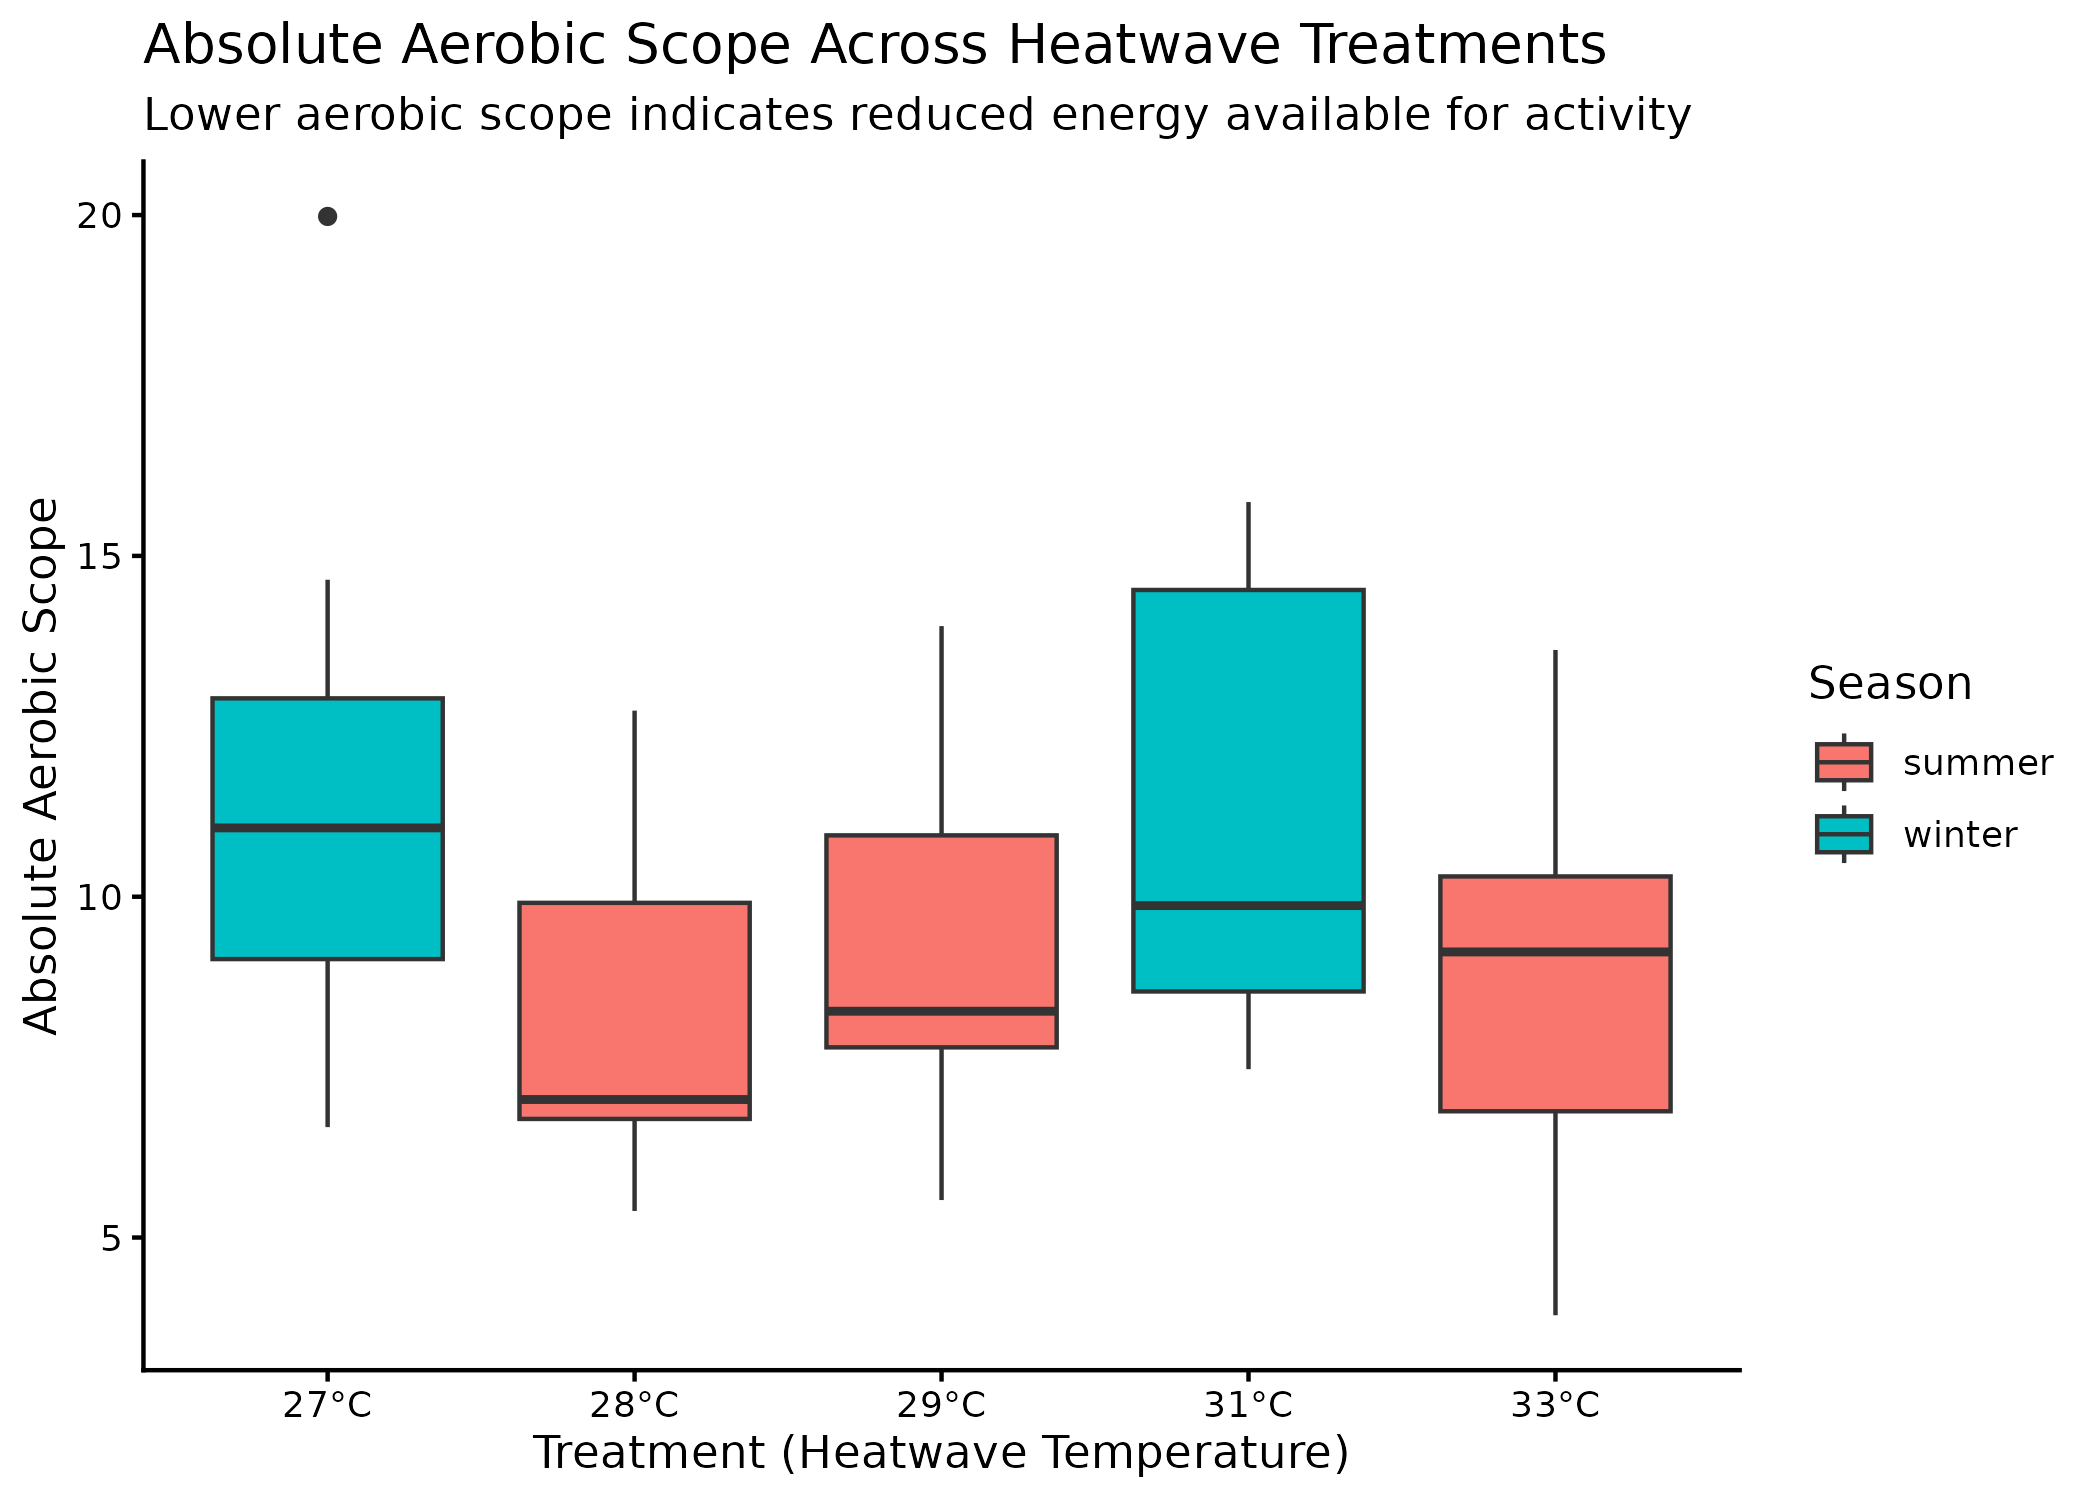
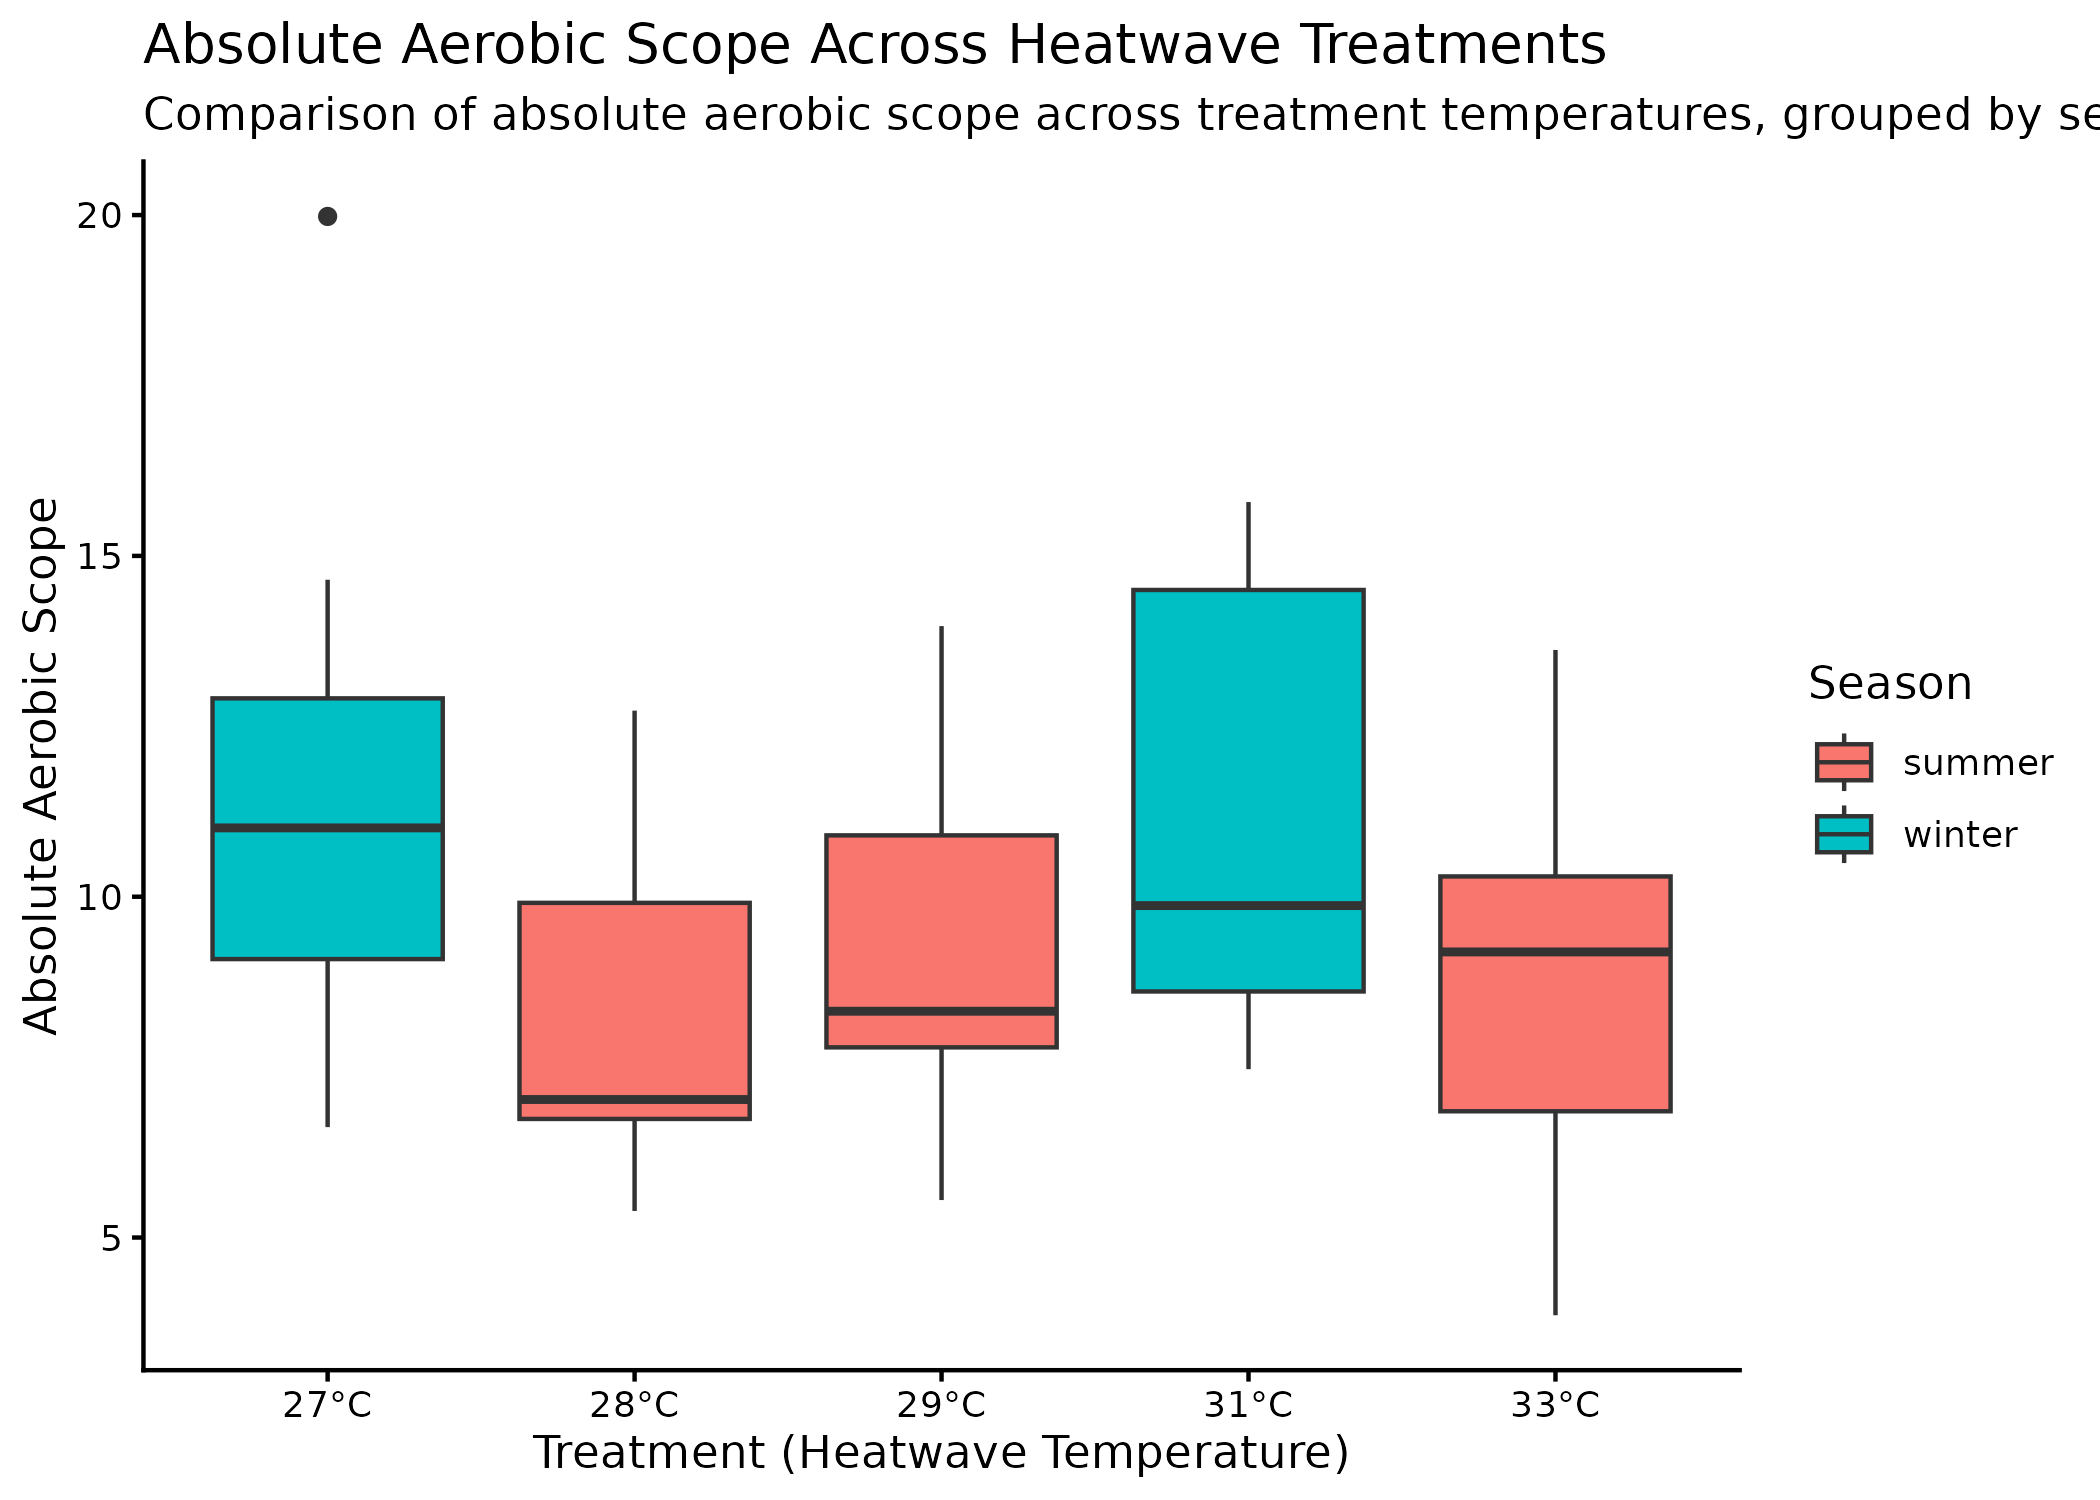
Final plot

Changed region(s): [[0.0619, 0.0613, 1.0, 0.092]]

diff --git a/memo/memo.md b/memo/memo.md
@@ -193,24 +193,6 @@ ggplot(df, aes(x = bw_g, y = mmr_corrected, color = season)) +
 
 ### Plot 5:Absolute Aerobic Scope vs Heatwave Treatment
 
-\#What is Absolute Aerobic Scope: This is the amount of energy an
-organism has for activites outside of basic survival. It is calculated
-by difference between an organism’s maximum metabolic rate and its
-standard metabolic rate. A higher absolute aerobic scope means an
-organism has more energy to available for movement, feeding, growth, or
-coping with stress. In our case a higher aerobic scope means the
-hawkfish are better able to deal with the heatwave treatments.
-
-\#Alt Text: Horizontal Box plot that dipicts the absolute aerobic scope
-for fish exposed to heatwave treatments of 27°C, 28°C, 29°C, 31°C, and
-33°C, separated by summer (pink) and winter (teal) seasons. Winter fish
-appear to have a higher aerobic scope compared to the summer fish. This
-means that they are able to handle the heatwave treatments better
-becuase they have more energy during the winter. The plot also shows
-among each season as the treatments get hotter the aerobic scope gets
-lower indicating that the harsher the heat treatment the lower the
-aerobic scope.
-
 ``` r
 aerobic_scope_treatment <- heatwaves_coral_fish_clean |>
   filter(treatment_new != "wild") |>
@@ -246,13 +228,7 @@ ggsave("fig_aerobic_vs_heatwave_boxplot.png", aerobic_scope_treatment, width = 7
     ## Warning: Removed 17 rows containing non-finite outside the scale range
     ## (`stat_boxplot()`).
 
-\#Plot 6: Boxplot: Aerobic Scope Across Seasons \#Alt Text: Scatterplot
-that compares absolute aerobic scope between summer and winter hawkfish.
-Summer fish (pink points) show values mostly between 4 and 14. Winter
-fish (teal points) show higher overall aerobic scope with points ranging
-from about 7 to 20. This plot makes it clear that Winter fish gerneally
-have higher aerobic scope during this time period as opposed to summer
-fish.
+\#Plot 6: Boxplot/scatterplot: Aerobic Scope Across Seasons .
 
 ``` r
 heatwaves_coral_fish_clean |>
@@ -300,7 +276,42 @@ heatwaves_coral_fish_clean |>
 
 #### Final Plot 1
 
-### Plot 2: \_\_\_\_\_\_\_\_\_
+### Plot 2:Absolute Aerobic Scope vs Heatwave Treatment by Season
+
+``` r
+aerobic_scope_treatment <- heatwaves_coral_fish_clean |>
+  filter(treatment_new != "wild") |>
+  mutate(treatment_new = factor(treatment_new,
+                                levels = c("27", "28", "29", "31", "33"))) |>
+  ggplot(aes(x = treatment_new,
+             y = absolute_aerobic_scope,
+             fill = season)) +
+  geom_boxplot(position = position_dodge(width = 0.8)) +
+  scale_x_discrete(labels = function(x) paste0(x, "°C")) +
+  labs(
+    title = "Absolute Aerobic Scope Across Heatwave Treatments",
+    subtitle = "Comparison of absolute aerobic scope across treatment temperatures, grouped by season",
+    x = "Treatment (Heatwave Temperature)",
+    y = "Absolute Aerobic Scope",
+    fill = "Season"
+  ) +
+  theme_classic()
+
+aerobic_scope_treatment
+```
+
+    ## Warning: Removed 17 rows containing non-finite outside the scale range
+    ## (`stat_boxplot()`).
+
+<img src="memo_files/figure-gfm/aerobic_scope_heatwaves_season-1.png" alt="Horizontal box plot showing absolute aerobic scope for fish exposed to heatwave treatments of 27°C, 28°C, 29°C, 31°C, and 33°C. The data compare summer fish (pink) and winter fish (teal). The figure is included to illustrate seasonal differences in aerobic scope across increasing temperature treatments, highlighting that winter fish display higher values across all treatments."  />
+
+``` r
+# Save the plot
+ggsave("fig_aerobic_vs_heatwave_boxplot.png", aerobic_scope_treatment, width = 7, height = 5)
+```
+
+    ## Warning: Removed 17 rows containing non-finite outside the scale range
+    ## (`stat_boxplot()`).
 
 ### Plot 3: \_\_\_\_\_\_\_\_\_\_\_
 
